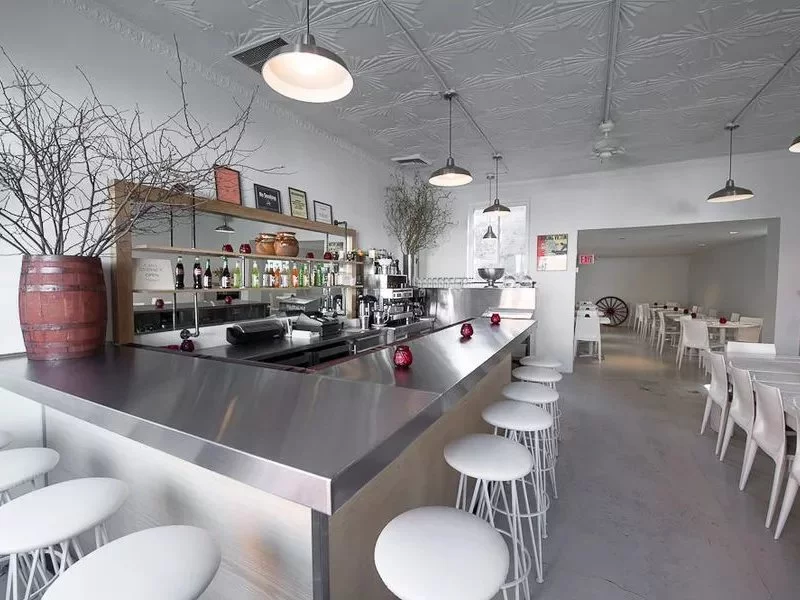
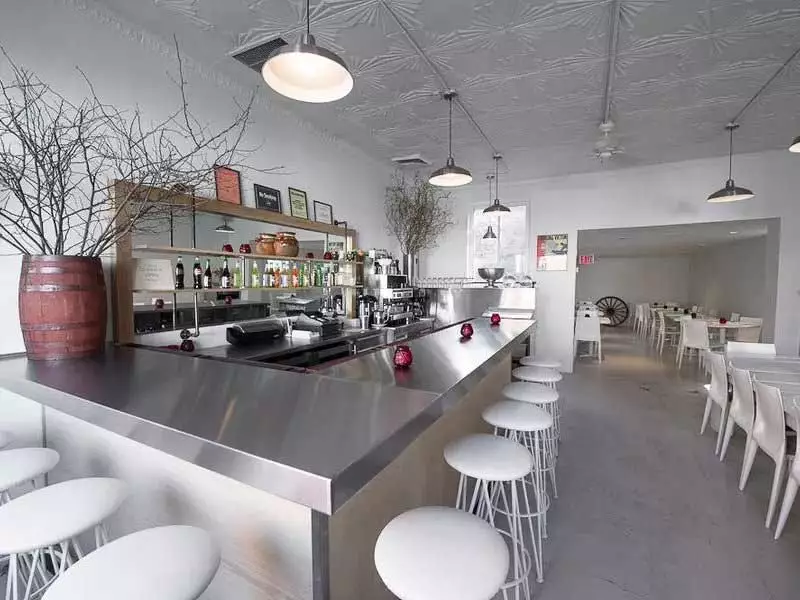
Stage-2

diff --git a/js/main.js b/js/main.js
@@ -138,15 +138,23 @@ fillRestaurantsHTML = (restaurants = self.restaurants) => {
 createRestaurantHTML = (restaurant) => {
   const li = document.createElement('li');
 
+  const picture = document.createElement('picture');
+  const source = document.createElement('source');
+  source.className = 'restaurant-img';
   const image = document.createElement('img');
   image.className = 'restaurant-img';
-  image.src = DBHelper.imageUrlForRestaurant(restaurant);
+  source.type = 'image/webp';
+  source.srcset = `${DBHelper.imageUrlForRestaurant(restaurant)}.webp`;
+  image.src = `${DBHelper.imageUrlForRestaurant(restaurant)}.jpg`;
+
+  picture.append(source);
+  picture.append(image);
   
   // Accessibility - Alternate text for image
   image.alt = `Picture of ${restaurant.name} restaurant`;
   // End of Accessibility - Alternate text for image
   
-  li.append(image);
+  li.append(picture);
 
   const name = document.createElement('h3');
   name.innerHTML = restaurant.name;

diff --git a/service-worker.js b/service-worker.js
@@ -17,7 +17,17 @@ self.addEventListener('install', function(event) {
         'img/7.webp',
         'img/8.webp',
         'img/9.webp',
-        'img/10.webp'
+        'img/10.webp',
+        'img/1.jpg',
+        'img/2.jpg',
+        'img/3.jpg',
+        'img/4.jpg',
+        'img/5.jpg',
+        'img/6.jpg',
+        'img/7.jpg',
+        'img/8.jpg',
+        'img/9.jpg',
+        'img/10.jpg'
     ]
     event.waitUntil(
         caches.open('cache-v2').then(function(cache) {

diff --git a/js/dbhelper.js b/js/dbhelper.js
@@ -191,7 +191,7 @@ class DBHelper {
    * Restaurant image URL.
    */
   static imageUrlForRestaurant(restaurant) {
-    return (`/img/${restaurant.photograph}.jpg`);
+    return (`/img/${restaurant.photograph}`);
   }
 
   /**
